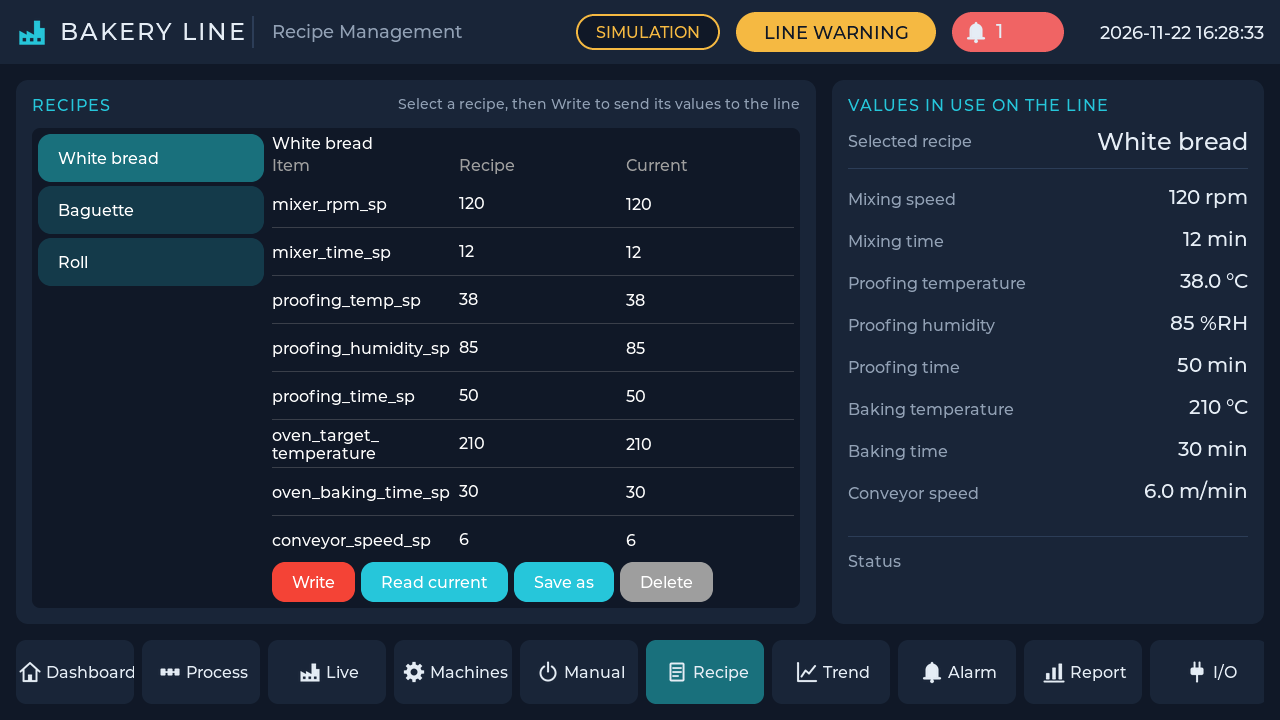
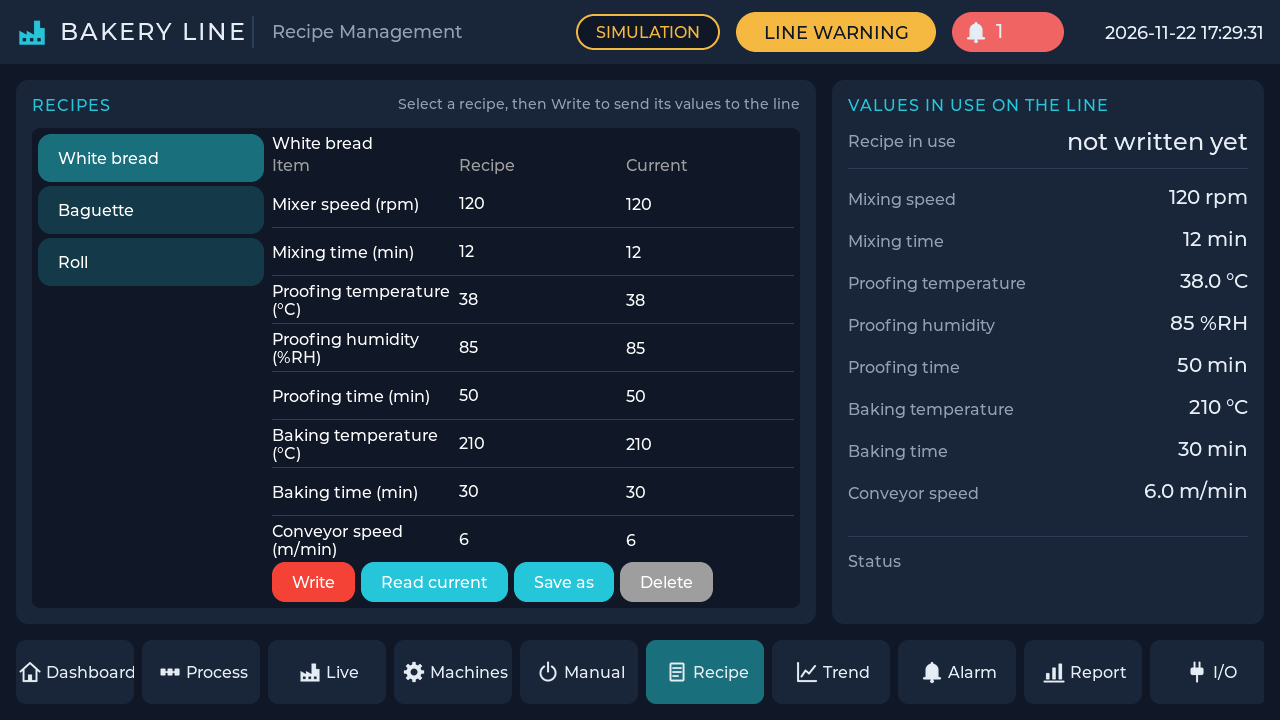
recipe_table: item names and units, the recipe in use as a tag, a question without "PLC" (#129)
- A recipe item can be { "tag": "temp_sp", "label": "Baking temperature", "unit": "°C" }: the
  table shows "Baking temperature (°C)" ("@ID" labels are translated); a plain tag name as before.
- sys.recipe.<book>.written: the recipe written last (the one in use); "" until one is written.
  sys.recipe.<book>.selected stays what is picked in the list.
- The question before a write is "Write '%s'?" (it named the PLC even where there is none); it and
  confirm_read / confirm_delete could always be set in "labels": now the skill says so.
- --check: the tags of recipe items and the "@ID" of their labels.
- projects/bakery: its recipe items have names and units; the recipe screen shows the recipe in use.

Closes #129

Claude-Session: https://claude.ai/code/session_01GNuewkYG3t9JHV84F8JA8o

diff --git a/src/recipe_view.cpp b/src/recipe_view.cpp
@@ -3,7 +3,7 @@
 //   { "type": "recipe_table", "book": "product", "w": "100%", "h": 300,
 //     "row_height": 40, "labels": { "write": "Write", "read": "Read current", "save_as": "Save as",
 //     "delete": "Delete", "item": "Item", "recipe": "Recipe", "current": "Current", "ok": "OK",
-//     "cancel": "Cancel", "name": "Recipe name", "confirm_write": "Write '%s' to the PLC?",
+//     "cancel": "Cancel", "name": "Recipe name", "confirm_write": "Write '%s'?",
 //     "confirm_delete": "Delete '%s'?", "confirm_read": "Put the current values into '%s'?" } }
 //
 // Left: the recipes (tap = select). Right: item | value of the selected recipe | current value;
@@ -32,6 +32,16 @@ std::string one_line(const std::string& s, size_t max = 64)
     std::string out;
     for(unsigned char c : s) out.push_back(c < 0x20 || c == 0x7f ? ' ' : static_cast<char>(c));
     if(out.size() > max) { size_t cut = max; while(cut > 0 && (static_cast<unsigned char>(out[cut]) & 0xC0) == 0x80) cut--; out = out.substr(0, cut) + "..."; }
+    return out;
+}
+
+// What the table calls an item: its "label" ("@ID" in the language of the screens) and its
+// "unit", or else the tag's name.
+std::string item_name(const RecipeBook& b, const std::string& item)
+{
+    auto l = b.labels.find(item);
+    std::string out = l == b.labels.end() ? item : texts().resolve(l->second);
+    if(auto u = b.units.find(item); u != b.units.end()) out += " (" + u->second + ")";
     return out;
 }
 
@@ -215,7 +225,7 @@ struct TableCtx {
             lv_obj_set_style_border_width(row, 1, 0);
             lv_obj_set_style_border_color(row, dim, 0);
             lv_obj_set_style_border_opa(row, LV_OPA_30, 0);
-            cell(row, one_line(item, 40), 36, fg);
+            cell(row, one_line(item_name(b, item), 40), 36, fg);
             // a value that will change when the recipe is written: colour and a sign (not only colour;
             // "*" because the built-in fonts have no "≠")
             lv_obj_t* v = cell(row, (differs ? std::string("* ") : std::string()) + one_line(val), 32, differs ? lv_palette_main(LV_PALETTE_ORANGE) : fg);
@@ -251,7 +261,7 @@ struct TableCtx {
         Tag* t = tags().find(item);
         const bool number = t && t->type() != TagType::String;
         std::string book = c->book;
-        dialog(one_line(name, 32) + ": " + one_line(item, 40), &start, number, c->labels,
+        dialog(one_line(name, 32) + ": " + one_line(item_name(*b, item), 40), &start, number, c->labels,
                [book, name, item](const std::string& text) { recipes().set_value(book, name, item, text); });
     }
     static void on_write(lv_event_t* e)
@@ -260,7 +270,7 @@ struct TableCtx {
         const RecipeBook* b = recipes().book(c->book);
         if(!b || b->selected.empty() || !recipe_allowed()) return;
         std::string book = c->book, name = b->selected;
-        dialog(with_name(c->lab("confirm_write", "Write '%s' to the PLC?"), one_line(name, 32)), nullptr, false, c->labels,
+        dialog(with_name(c->lab("confirm_write", "Write '%s'?"), one_line(name, 32)), nullptr, false, c->labels,
                [book, name](const std::string&) { recipes().write(book, name); });
     }
     static void on_read(lv_event_t* e)

diff --git a/tests/test_recipe.cpp b/tests/test_recipe.cpp
@@ -332,3 +332,47 @@ TEST_CASE("recipes: changing needs the level; the widget shows and writes")
     ui().unload_all();
     f.rt.advance(400);
 }
+
+TEST_CASE("recipes: items with a label and a unit; the recipe written last; the question names no PLC")
+{
+    Fixture f;
+    REQUIRE(f.load(R"~({ "books": [ { "name": "bread", "items": [
+        { "tag": "temp_sp", "label": "Baking temperature", "unit": "°C" }, { "tag": "speed_sp", "unit": "rpm" }, "mode" ],
+        "recipes": [ { "name": "Baguette", "values": { "temp_sp": 120, "speed_sp": 90 } }, { "name": "Roll", "values": { "temp_sp": 100 } } ] } ] })~") == 1);
+    const RecipeBook* b = recipes().book("bread");
+    REQUIRE(b);
+    CHECK(b->items == std::vector<std::string>{ "temp_sp", "speed_sp", "mode" });
+    Tag* written = tags().find("sys.recipe.bread.written");
+    REQUIRE(written);
+    CHECK(written->get().format() == "");                                                   // nothing written yet
+    CHECK(recipes().select("bread", "Roll") == "");
+    CHECK(written->get().format() == "");                                                   // picking is not writing
+    CHECK(recipes().write("bread", "Baguette") == "");
+    CHECK(written->get().format() == "Baguette");
+    CHECK(tags().find("sys.recipe.bread.selected")->get().format() == "Baguette");
+
+    json scr = { { "name", "rec2" }, { "children", J(R"~([ { "type": "recipe_table", "book": "bread", "w": 600, "h": 300 } ])~") } };
+    lv_obj_t* s = ui().build_screen(scr, "/base");
+    REQUIRE(s);
+    REQUIRE(ui().show_screen("rec2", "none"));
+    f.rt.advance(400);
+    lv_obj_update_layout(s);
+    lv_obj_t* table = lv_obj_get_child(s, 0);
+    lv_obj_t* rows = lv_obj_get_child(lv_obj_get_child(table, 1), 1);
+    auto item = [&](int r) { return std::string(lv_label_get_text(lv_obj_get_child(lv_obj_get_child(rows, r), 0))); };
+    CHECK(item(1) == "Baking temperature (°C)");
+    CHECK(item(2) == "speed_sp (rpm)");                                                     // no label: the tag's name
+    CHECK(item(3) == "mode");
+    lv_obj_t* foot = lv_obj_get_child(lv_obj_get_child(table, 1), 2);
+    lv_obj_send_event(lv_obj_get_child(foot, 0), LV_EVENT_CLICKED, nullptr);               // Write: the question
+    lv_obj_t* dlg = lv_obj_get_child(lv_layer_top(), -1);
+    REQUIRE(dlg);
+    const std::string q = lv_label_get_text(lv_obj_get_child(lv_obj_get_child(dlg, 0), 0));
+    CHECK(q == "Write 'Baguette'?");
+    lv_obj_t* cancel = lv_obj_get_child(lv_obj_get_child(lv_obj_get_child(dlg, 0), 1), 0);
+    lv_obj_send_event(cancel, LV_EVENT_CLICKED, nullptr);                                  // (the dialog must not stay for later tests)
+    f.rt.advance(400);
+    CHECK(lv_obj_get_child_count(lv_layer_top()) == 0);
+    ui().unload_all();
+    f.rt.advance(400);
+}

diff --git a/src/recipe.hpp b/src/recipe.hpp
@@ -5,7 +5,8 @@
 //     "verify_ms": 2000,                  // after a write: compare the tags with what was written
 //     "books": [
 //       { "name": "product",
-//         "items": ["temp_sp", "speed_sp", "time_s"],      // the tags of this kind of recipe
+//         "items": ["temp_sp", "speed_sp", "time_s"],      // the tags of this kind of recipe; an item can be
+//                                                          // { "tag": "temp_sp", "label": "Temperature", "unit": "°C" }
 //         "recipes": [ { "name": "A", "values": { "temp_sp": 80, "speed_sp": 1200, "time_s": 30 } },
 //                      { "name": "B", "values": { "temp_sp": 95, "speed_sp": 900, "time_s": 45 } } ] } ] }
 //
@@ -18,7 +19,8 @@
 // writes them to the PLC and reads them back); differences are reported in sys.recipe.status.
 // Every write / save / delete / import is recorded in the operation log.
 //
-// Tags: sys.recipe.status (text of the last action), sys.recipe.<book>.selected (name).
+// Tags: sys.recipe.status (text of the last action), sys.recipe.<book>.selected (the recipe picked
+// in the list), sys.recipe.<book>.written (the recipe written last; "" until one is written).
 // Actions (call fn, arg): recipe.select "book,name" | recipe.write "book[,name]" |
 // recipe.save "book,name" (the tags' current values) | recipe.delete "book[,name]" |
 // recipe.export "book[,file.csv]" | recipe.import "book,file.csv". See README.md ("レシピ").
@@ -43,6 +45,8 @@ struct Recipe {
 struct RecipeBook {
     std::string name;
     std::vector<std::string> items;
+    std::map<std::string, std::string> labels, units;   // item -> what the table shows ("@ID" kept), its unit
+    std::string written;                          // the recipe written last (sys.recipe.<book>.written)
     std::vector<Recipe> recipes;
     std::string file;                             // the device's copy
     std::string selected;

diff --git a/src/recipe.cpp b/src/recipe.cpp
@@ -110,6 +110,10 @@ int Recipes::load(const json* section, const std::string& base_dir)
                 if(!tags().find(tn)) { HML_WARN("recipes: book '%s': unknown tag '%s'", b.name.c_str(), tn.c_str()); continue; }
                 if(std::find(b.items.begin(), b.items.end(), tn) != b.items.end() || b.items.size() >= kMaxItems) continue;
                 b.items.push_back(tn);
+                if(it.is_object()) {
+                    if(auto l = jstr_opt(it, "label"); l && !l->empty()) b.labels[tn] = *l;
+                    if(auto u = jstr_opt(it, "unit"); u && !u->empty()) b.units[tn] = *u;
+                }
             }
         }
         b.file = dir_ + "/" + b.name + ".json";
@@ -179,7 +183,11 @@ bool Recipes::valid_name(const std::string& name)
 uint32_t Recipes::now() const { return now_fn_ ? now_fn_() : millis(); }
 std::string Recipes::fail(const std::string& msg) { set_sys_tag("sys.recipe.status", msg); HML_WARN("recipes: %s", msg.c_str()); return msg; }
 std::string Recipes::ok(const std::string& msg) { set_sys_tag("sys.recipe.status", msg); gen_++; return ""; }
-void Recipes::update_tags(const RecipeBook& b) { set_sys_tag("sys.recipe." + b.name + ".selected", b.selected); }
+void Recipes::update_tags(const RecipeBook& b)
+{
+    set_sys_tag("sys.recipe." + b.name + ".selected", b.selected);
+    set_sys_tag("sys.recipe." + b.name + ".written", b.written);
+}
 
 bool Recipes::persist(RecipeBook& b, std::string* err)
 {
@@ -240,6 +248,7 @@ std::string Recipes::write(const std::string& bk, const std::string& name0)
         verify_.expected[item] = t->get();
     }
     b->selected = name;
+    b->written = name;
     update_tags(*b);
     operation_log().record("recipe", bk, "", "write " + name);
     if(verify_ms_ > 0) { verify_.active = true; verify_.due = now() + verify_ms_; verify_.book = bk; verify_.name = name; }

diff --git a/src/check.cpp b/src/check.cpp
@@ -440,6 +440,18 @@ std::vector<CheckProblem> check_project(const std::string& path, std::vector<std
         if(!ff.empty() && !fs::is_regular_file(c.dir / fs::u8path(ff), ec)) c.add("font", "no file \"" + ff + "\"");
     }
 
+    // ---- recipe books: the tags of the items, the "@ID" of their labels
+    if(const json* rc = jget(root, "recipes")) if(const json* bs = jget(*rc, "books"); bs && bs->is_array())
+        for(size_t i = 0; i < bs->size(); i++) {
+            const json* items = jget((*bs)[i], "items");
+            if(!items || !items->is_array()) continue;
+            const std::string where = "recipes.books[" + std::to_string(i) + "] (" + jstr((*bs)[i], "name", "?") + ")";
+            for(const json& it : *items) {
+                c.need_tag(where, "items", it.is_object() ? it.value("tag", json("")) : it);
+                if(it.is_object()) if(const json* l = jget(it, "label")) c.text_id(where, "items.label", *l);
+            }
+        }
+
     // ---- drivers: the tags of their tables ("map", "items", "publish" ...) and the status tag
     if(const json* dl = jget(root, "drivers"); dl && dl->is_array()) {
         for(size_t i = 0; i < dl->size(); i++) {

diff --git a/README.ja.md b/README.ja.md
@@ -2303,7 +2303,7 @@ hml_runtime --export-alarm-log alarms.csv projects/demo/project.json
 | ------------ | ------------------------------------------------------------------------------------------------------ |
 | `level`      | 装置でレシピを書き込む・保存する・削除するのに必要なユーザーレベル（既定 0 = 誰でも。選ぶだけなら不要） |
 | `verify_ms`  | 書き込んでからこの時間（ms）後に、タグの値と書いた値を比べる（既定 2000、0 = 比べない）                |
-| `books`      | レシピブック: `name`（1〜32 文字、`/ \ : * ? " < > | .` は不可）、`items`（タグ）、`recipes`（初期のレシピ） |
+| `books`      | レシピブック: `name`（1〜32 文字、`/ \ : * ? " < > | .` は不可）、`items`（タグ。`{ "tag": "temp_sp", "label": "温度", "unit": "°C" }` と書くと、レシピ表に「温度 (°C)」と出ます。`label` は `@ID` も可）、`recipes`（初期のレシピ） |
 
 - **書き込み**: 先にすべての値を、型とタグの `min` / `max` で確かめます。1 つでも外れていれば何も書きません。
   書いたあと `verify_ms` 経ったら値を比べ、PLC が受け付けなかった値があれば `sys.recipe.status` に出します。
@@ -2314,7 +2314,8 @@ hml_runtime --export-alarm-log alarms.csv projects/demo/project.json
   で始まる文字）は先頭に `'` を付けて書き出します（CSV インジェクション対策）。取り込みは、列がブックの項目か、
   名前と値が正しいか、大きさ（4 MB まで）を確かめ、1 つでも問題があれば何も変えません。
 - 書き込み・保存・削除・取り込み・書き出しは操作ログに記録します（種別 `recipe`）。
-- タグ: `sys.recipe.status`（最後の操作の結果）、`sys.recipe.<ブック名>.selected`（選んでいるレシピ）。
+- タグ: `sys.recipe.status`（最後の操作の結果）、`sys.recipe.<ブック名>.selected`（一覧で選んでいるレシピ）、
+  `sys.recipe.<ブック名>.written`（最後に書き込んだ、今使っているレシピ。書き込むまでは空）。
 - 動作（`call`）: `recipe.select`（`"ブック,名前"`）、`recipe.write`（`"ブック[,名前]"`、省略時は選んでいるもの）、
   `recipe.save`（`"ブック,名前"`: 今のタグの値で保存）、`recipe.delete`、`recipe.export`（`"ブック[,ファイル]"`）、`recipe.import`（`"ブック,ファイル"`）。
 
@@ -2328,7 +2329,7 @@ hml_runtime --export-alarm-log alarms.csv projects/demo/project.json
 ボタンが出ます。レシピの値と現在値が違うところは色と `*` で示します（書き込むと変わる値）。値をタップすると
 その値を変えられます。書き込み・読み込み・削除は確認してから行い、`level` が足りなければログイン画面が出ます。
 `labels` で表示文字を置き換えられます（`write` `read` `save_as` `delete` `item` `recipe` `current` `ok` `cancel` `name`
-`confirm_write` `confirm_read` `confirm_delete`。`%s` はレシピ名）。
+`confirm_write` `confirm_read` `confirm_delete`。`%s` はレシピ名。書き込みの前の確認は「Write '%s'?」）。
 
 デザイナーでは「レシピ」タブ（Ctrl+7）でブックとレシピを表の形で編集でき、表計算ソフトとの取り込み / 書き出しもできます。
 範囲外の値や存在しないブックは問題一覧に出ます。

diff --git a/README.md b/README.md
@@ -2301,7 +2301,7 @@ A set of tag values, such as the setpoints of a product type, is given a name an
 | ------------ | ------------------------------------------------------------------------------------------------------ |
 | `level`      | The user level needed to write, save and delete recipes on the device (default 0 = anybody. Not needed just to select) |
 | `verify_ms`  | This time (ms) after the write, the tag values are compared with the written values (default 2000, 0 = no comparison) |
-| `books`      | Recipe books: `name` (1 to 32 characters, `/ \ : * ? " < > | .` not allowed), `items` (tags), `recipes` (the initial recipes) |
+| `books`      | Recipe books: `name` (1 to 32 characters, `/ \ : * ? " < > | .` not allowed), `items` (tags; an item can be `{ "tag": "temp_sp", "label": "Temperature", "unit": "°C" }`: the recipe table shows "Temperature (°C)", `label` can be `@ID`), `recipes` (the initial recipes) |
 
 - **Writing**: first all values are checked against the type and the `min` / `max` of the tags. If even one is out of range, nothing is written.
   When `verify_ms` has passed after the write, the values are compared, and any value the PLC did not accept is reported in `sys.recipe.status`.
@@ -2312,7 +2312,8 @@ A set of tag values, such as the setpoints of a product type, is given a name an
   are written with a `'` in front (against CSV injection). An import checks that the columns are the items of the book, that
   the names and values are valid, and the size (up to 4 MB); if there is even one problem, nothing is changed.
 - Write, save, delete, import and export are recorded in the operation log (kind `recipe`).
-- Tags: `sys.recipe.status` (the result of the last operation), `sys.recipe.<book name>.selected` (the selected recipe).
+- Tags: `sys.recipe.status` (the result of the last operation), `sys.recipe.<book name>.selected` (the recipe picked in the list),
+  `sys.recipe.<book name>.written` (the recipe written last, the one in use; empty until one is written).
 - Actions (`call`): `recipe.select` (`"book,name"`), `recipe.write` (`"book[,name]"`, the selected one when omitted),
   `recipe.save` (`"book,name"`: saves the current tag values), `recipe.delete`, `recipe.export` (`"book[,file]"`), `recipe.import` (`"book,file"`).
 
@@ -2326,7 +2327,7 @@ On the left is the list of recipes; on the right are a table of "item, recipe va
 Where the recipe value and the current value differ, it is shown by a color and `*` (the values that a write would change). A tap on a value
 lets you change it. Write, read and delete ask for confirmation first, and if `level` is not enough the login screen appears.
 `labels` replaces the displayed texts (`write` `read` `save_as` `delete` `item` `recipe` `current` `ok` `cancel` `name`
-`confirm_write` `confirm_read` `confirm_delete`. `%s` is the recipe name).
+`confirm_write` `confirm_read` `confirm_delete`. `%s` is the recipe name; the question before a write is "Write '%s'?").
 
 In the designer, the "Recipes" tab (Ctrl+7) edits the books and recipes as a table, and can also import from / export to a spreadsheet program.
 Values out of range and books that do not exist appear in the list of problems.

diff --git a/tools/skill/hml-screens/reference/project-features.md b/tools/skill/hml-screens/reference/project-features.md
@@ -109,7 +109,8 @@
   "level": 2,
   "books": [
     { "name": "bread",
-      "items": ["mixer_rpm_sp", "mix_time_sp", "proofing_temp_sp", "oven_temp_sp"],
+      "items": [ { "tag": "mixer_rpm_sp", "label": "Mixer speed", "unit": "rpm" }, { "tag": "mix_time_sp", "label": "Mixing time", "unit": "min" },
+                 "proofing_temp_sp", "oven_temp_sp" ],
       "recipes": [
         { "name": "Shokupan", "values": { "mixer_rpm_sp": 120, "mix_time_sp": 600, "proofing_temp_sp": 38, "oven_temp_sp": 210 } },
         { "name": "Baguette", "values": { "mixer_rpm_sp": 90,  "mix_time_sp": 480, "proofing_temp_sp": 26, "oven_temp_sp": 240 } }
@@ -121,17 +122,15 @@
 | キー | 内容 |
 | --- | --- |
 | `books[].name` | ブックの名前（必須、1〜32 文字、`/ \ : * ? " < > | .` は使えない。`recipe_table` の `book`） |
-| `books[].items` | レシピが持つタグ（必須。タグ名の配列。設定値のタグにする: 書き込むと機器へ送られる） |
+| `books[].items` | レシピが持つタグ（必須。設定値のタグにする: 書き込むと機器へ送られる）。タグ名か `{ "tag", "label", "unit" }`: `recipe_table` には「label (unit)」と出る（`label` は `"@ID"` も可。省くとタグ名）。**読みやすい名前と単位を必ず付ける** |
 | `books[].recipes` | 最初から入っているレシピ: `{ "name", "values": { タグ名: 値 } }`（名前は重複不可） |
 | `level` | 書き込み・保存・削除ができるユーザーのレベル（`users` があるとき。0 = だれでも） |
 | `verify_ms` | 書き込んだあと、機器の値が同じになったか確かめる時間（既定 2000、0 = 確かめない） |
 | `path` | 装置で変えたレシピを置くフォルダー（既定 `recipes`。そこにファイルがあれば、プロジェクトの `recipes` より優先） |
 
 - レシピの名前は表示にそのまま出る（`"@ID"` は使えない）。日本語の名前にするならフォントが要る。
-- `sys.recipe.<ブック名>.selected` は**一覧で選んでいる**レシピの名前（書き込んだレシピではない）。最後の操作の結果は `sys.recipe.status`。
-  「今使っているレシピ」を出すなら文字列のタグを作り、`sys.recipe.status` の変化を受けるスクリプト（`trigger: "tag"`）で入れる。
-- `recipe_table` の行の見出しはタグ名のまま（読みやすい名前は付けられない）。名前と単位は隣に `label` や `table` で並べる。
-  書き込みの確認の文は英語で固定（「… to the PLC?」）。
+- `sys.recipe.<ブック名>.selected` は**一覧で選んでいる**レシピ、`sys.recipe.<ブック名>.written` は**最後に書き込んだ（今使っている）**レシピ
+  （書き込むまでは空）。「今のレシピ」をヘッダーなどに出すなら `written`。最後の操作の結果は `sys.recipe.status`。
 
 ## スクリプト (`scripts`)
 

diff --git a/tools/skill/hml-screens/reference/binding-and-actions.md b/tools/skill/hml-screens/reference/binding-and-actions.md
@@ -388,7 +388,8 @@
 ### `recipe_table`
 
 - 中に、レシピの一覧と書き込み・保存などのボタンを持つ。高さ 300 以上、幅は画面いっぱいが基本。
-- `labels`: `write` `read` `save_as` `delete` `item` `recipe` `current` `ok` `cancel` `name`。
+- `labels`: `write` `read` `save_as` `delete` `item` `recipe` `current` `ok` `cancel` `name`、確認の文 `confirm_write` `confirm_read`
+  `confirm_delete`（`%s` がレシピ名。書き込みの確認は省くと「Write '%s'?」）。項目の名前と単位は `recipes` の `items` に書く（`project-features.md`）。
 
 これらの部品が要る設定（`alarms`、`data_log` のグループ、`recipes`）の書き方は `project-features.md`。
 プロジェクトにないのにこれらの部品を頼まれたら、設定も足してよい（既存の設定があればその書き方に合わせる。足したことを報告する）。
